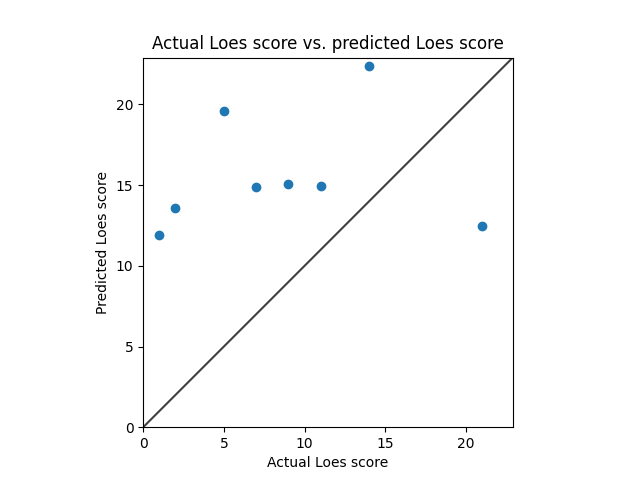
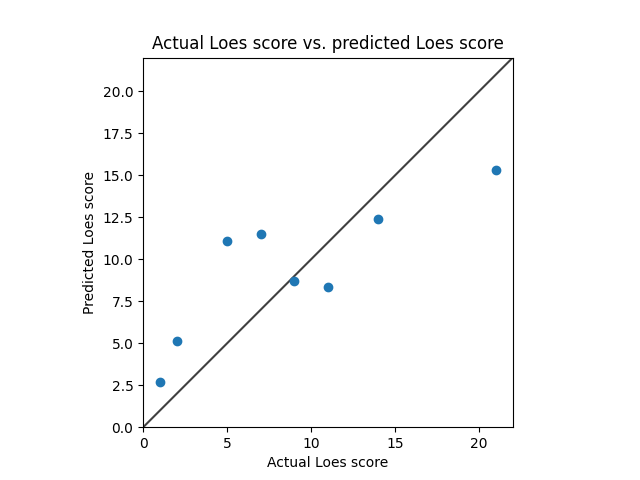
Work on testing inference.

diff --git a/src/util/join_spreadsheets.py b/src/util/join_spreadsheets.py
@@ -1,0 +1,62 @@
+import os
+
+import pandas as pd
+from datetime import datetime
+
+
+def get_session_id(date_of_mri):
+    dt = datetime.strptime(date_of_mri, '%m/%d/%Y')
+    date_time = dt.strftime("%Y%m%d")  # <- here
+    return date_time
+
+
+nascene_deid_dir = '/home/feczk001/shared/data/loes_scoring/nascene_deid'
+bids_dir = os.path.join(nascene_deid_dir, 'BIDS')
+loes_score_file = os.path.join(bids_dir, 'loes_scores.csv')
+loes_score_df = pd.read_csv(loes_score_file)
+data_mappings_file = os.path.join(nascene_deid_dir, 'DICOMS/data_mappings.tsv')
+subject_id_mappings_df = pd.read_csv(data_mappings_file, sep='\t')
+
+
+def remove_cruft_from_subject_id(subject_id):
+    if subject_id.endswith('.zip'):
+        subject_id = subject_id[:-4]
+    if subject_id.endswith('_part1') or subject_id.endswith('_part2'):
+        subjectID = subject_id[:-6]
+
+    return subject_id
+
+
+def remove_cruft_from_deidentified_subject_id(subjectID):
+    subjectID = subjectID[5:]
+    if subjectID.endswith('a') or subjectID.endswith('b'):
+        subjectID = subjectID[:-1]
+
+    return int(subjectID)
+
+
+subject_id_mappings_df['subjectIDTemp'] = \
+    subject_id_mappings_df.apply(lambda row: remove_cruft_from_subject_id(row['subjectID']), axis=1)
+subject_id_mappings_df = subject_id_mappings_df.drop('subjectID', axis=1)
+subject_id_mappings_df['deidentified_subjectID'] = \
+    subject_id_mappings_df.apply(lambda row: remove_cruft_from_deidentified_subject_id(row['deidentified_subjectID']),
+                                 axis=1)
+subject_id_mappings_df.drop_duplicates(inplace=True)
+subject_id_mappings_df.rename(columns={'subjectIDTemp': 'subjectID'}, inplace=True)
+loes_score_df.rename(columns={'subject': 'deidentified_subjectID'}, inplace=True)
+loes_score_df = pd.merge(subject_id_mappings_df, loes_score_df, on='deidentified_subjectID', how='inner')
+master_file_11_28_22_ald_loes_scores_dn_file = os.path.join(bids_dir, 'Master file_11_28_22 ALD Loes scores DN.csv')
+master_file_11_28_22_ald_loes_scores_dn_df = pd.read_csv(master_file_11_28_22_ald_loes_scores_dn_file)
+master_file_11_28_22_ald_loes_scores_dn_df.ffill(axis=0, inplace=True)
+master_file_11_28_22_ald_loes_scores_dn_df['session'] = \
+    master_file_11_28_22_ald_loes_scores_dn_df.apply(lambda row: get_session_id(row['Date of MRI']), axis=1)
+master_file_11_28_22_ald_loes_scores_dn_df_columns = master_file_11_28_22_ald_loes_scores_dn_df.columns
+named_columns = [column for column in master_file_11_28_22_ald_loes_scores_dn_df_columns if
+                 not column.startswith('Unnamed: ')]
+master_file_11_28_22_ald_loes_scores_dn_df = master_file_11_28_22_ald_loes_scores_dn_df[[*named_columns]]
+loes_score_df.rename(columns={'session-date': 'session', 'subjectID': 'subject'}, inplace=True)
+loes_score_df = loes_score_df.astype({'session': 'string'})
+master_file_11_28_22_ald_loes_scores_dn_df.rename(columns={'Subject ID': 'subject', 'Loes Score:': 'loes_score'},
+                                                  inplace=True)
+loes_score_df = pd.merge(master_file_11_28_22_ald_loes_scores_dn_df, loes_score_df, on=['subject', 'session'])
+loes_score_df.to_csv(os.path.join(bids_dir, 'loes_scores_all.csv'), index=False)

diff --git a/src/dcan/inference/make_predictions.py b/src/dcan/inference/make_predictions.py
@@ -1,0 +1,67 @@
+import logging
+import math
+import os.path
+
+import pandas as pd
+import statistics
+import sys
+import torch
+import torchio as tio
+from math import sqrt
+
+from reprex.models import AlexNet3D
+
+log = logging.getLogger(__name__)
+# log.setLevel(logging.WARN)
+# log.setLevel(logging.INFO)
+log.setLevel(logging.DEBUG)
+
+
+def process_data(model_save_location, val_csv_location, val_csv_save_location):
+    model = AlexNet3D(4608)
+    model.load_state_dict(torch.load(model_save_location,
+                                     map_location='cpu'))
+    model.eval()
+
+    df = pd.read_csv(val_csv_location)
+    df['prediction'] = ''
+    df = df.reset_index()
+    ratings_dict = dict()
+    with torch.no_grad():
+        squares_list = []
+        prediction_list = []
+        for index, row in df.iterrows():
+            image_path = row['file-path']
+            try:
+                actual_loes_score = row['loes_score']
+                if math.isnan(actual_loes_score):
+                    continue
+            except ValueError:
+                log.error(f"Loes score error on line {index + 2}")
+
+                continue
+            image_path_parts = image_path.split('/')
+            image_file = image_path_parts[-1]
+            image_path = os.path.join('/home/feczk001/shared/data/loes_scoring/nascene_deid/BIDS/defaced/', image_file)
+            image = tio.ScalarImage(image_path)
+
+            image_tensor = image.data
+
+            image_tensor = torch.unsqueeze(image_tensor, dim=0)
+            output = model(image_tensor)
+            prediction = output[0].item()
+            df.at[index, 'prediction'] = prediction
+            difference = actual_loes_score - prediction
+            square = difference * difference
+            squares_list.append(square)
+            prediction_list.append(prediction)
+        log.info(ratings_dict)
+        rmse = sqrt(sum(squares_list) / len(squares_list))
+        sigma = statistics.stdev(prediction_list)
+        standardized_rmse = rmse / sigma
+        log.info(f'standardized_rmse: {standardized_rmse}')
+        df.to_csv(val_csv_save_location, index=False)
+
+
+if __name__ == "__main__":
+    process_data(sys.argv[1], sys.argv[2], sys.argv[3])

diff --git a/src/dcan/util/anonymize_file_names.py b/src/dcan/util/anonymize_file_names.py
@@ -1,0 +1,49 @@
+import os
+import shutil
+
+import pandas as pd
+
+atlas_reg_dir = '/home/feczk001/shared/data/loes_scoring/nascene_deid/BIDS/atlas_reg'
+
+# Sample command
+# ./affine_registration_wrapper.sh sub-02 20090924
+
+rootdir = atlas_reg_dir
+files = (file for file in os.listdir(rootdir)
+         if os.path.isfile(os.path.join(rootdir, file)))
+old_sub = None
+session_index = 0
+df = pd.DataFrame(
+    {
+        "subject": [],
+        "session-date": [],
+        "session_number": [],
+        "file-path": []
+    }
+)
+i = 0
+anonymized_names_dir = '/home/feczk001/shared/data/loes_scoring/nascene_deid/BIDS/anonymized_names/'
+old_session_date = None
+for nifti_file in files:
+    this_sub = nifti_file[4:6]
+    session_date = nifti_file[7:15]
+    if this_sub != old_sub:
+        # new subject
+        old_sub = this_sub
+        session_index = 0
+        old_session_date = session_date
+    else:
+        if session_date != old_session_date:
+            old_session_date = session_date
+            session_index += 1
+    anonymized_file_name = nifti_file.replace(session_date, f"session-{session_index:02d}", 1)
+    anonymized_file_name = anonymized_file_name.replace(session_date, f"", 1)
+    anonymized_file_name = f'{anonymized_file_name[:-14]}.nii.gz'
+    print(f'old: {nifti_file}')
+    src = os.path.join(atlas_reg_dir, nifti_file)
+    dst = os.path.join(anonymized_names_dir, anonymized_file_name)
+    shutil.copyfile(src, dst)
+    print(f'new: {anonymized_file_name}\n')
+    df.loc[i] = [old_sub, session_date, str(int(session_index)), dst]
+    i += 1
+df.to_csv(os.path.join(anonymized_names_dir, 'loes_scores.csv'), index=False)

diff --git a/src/dcan/plot/scatter_plot_validation.py b/src/dcan/plot/scatter_plot_validation.py
@@ -1,0 +1,35 @@
+import pandas as pd
+import matplotlib.pyplot as plt
+import numpy as np
+
+loes_scores_file = '/home/feczk001/shared/data/loes_scoring/nascene_deid/BIDS/loes_scores_all_predictions.csv'
+loes_scores_df = pd.read_csv(loes_scores_file)
+loes_scores_df = loes_scores_df.reset_index()
+ratings_dict = dict()
+xs = []
+ys = []
+for index, row in loes_scores_df.iterrows():
+    xs.append(row['loes_score'])
+    ys.append(row['prediction'])
+loes_scores_df.drop(['level_0', 'subject', 'First Name', 'Last Name', 'Date of Birth', 'Date of MRI', 'session'], inplace=True, axis=1)
+loes_scores_df.to_csv('/home/feczk001/shared/data/loes_scoring/nascene_deid/BIDS/anonymized_loes_scores_all_predictions_out.csv', index=False)
+
+fig, ax = plt.subplots()
+plt.scatter(xs, ys)
+plt.title('Actual Loes score vs. predicted Loes score')
+lims = [
+    np.min([ax.get_xlim(), ax.get_ylim()]),  # min of both axes
+    np.max([ax.get_xlim(), ax.get_ylim()]),  # max of both axes
+]
+
+# now plot both limits against each other
+ax.plot(lims, lims, 'k-', alpha=0.75, zorder=0)
+ax.set_aspect('equal')
+ax.set_xlim(lims)
+ax.set_ylim(lims)
+plt.xlabel("Actual Loes score")
+plt.ylabel("Predicted Loes score")
+
+output_file = '/home/miran045/reine097/projects/loes-scoring-2/doc/img/results.png'
+plt.savefig(output_file)
+plt.show()

diff --git a/src/dcan/training/training.py b/src/dcan/training/training.py
@@ -272,6 +272,8 @@ class LoesScoringTrainingApp:
             self.val_writer.close()
 
         # save state dict of DataParallel object
+        if isinstance(self.model, torch.nn.DataParallel):
+            self.model = self.model.module
         torch.save(self.model.state_dict(), self.cli_args.model_save_location)
 
         try:

diff --git a/src/dcan/inference/infer.py b/src/dcan/inference/infer.py
@@ -1,0 +1,4 @@
+import pandas as pd
+
+loes_scoring_spreadsheet = '/home/feczk001/shared/data/loes_scoring/nascene_deid/BIDS/loes_scores_all.csv'
+loes_scores = pd.read_csv(loes_scoring_spreadsheet)

diff --git a/src/util/anonymize_data.py b/src/util/anonymize_data.py
@@ -1,0 +1,1 @@
+in_file = ''

diff --git a/doc/LoesScoreModels.md b/doc/LoesScoreModels.md
@@ -1,11 +1,12 @@
 # Model 1
-* Standardized RMSE: 0.4154669080006739
-![Model 1](./img/model01.png "Model 0")
-* correlation:    0.9007370909445895
-* p-value:        0.00037621222506148785
-* standard error: 0.1563792911743734
+* Standardized RMSE: 1.2942855794648784
+![Model 1](./img/model02_512.png "Model 0")
+* correlation:    0.8062695135102309
+* p-value:        0.015638673839783852
+* standard error: 0.11887297424632068
 * SLURM script: *../src/dcan/training/loes-scoring-training_model01_mesabi.sh*
-* Model: */home/feczk001/shared/data/AlexNet/LoesScoring/loes_scoring_01.pt*
+* Model: */home/feczk001/shared/data/AlexNet/LoesScoring/loes_scoring_02_512.pt*
+* Epochs: 512
 * File types: mprage.nii.gz
 
 # Model 2
